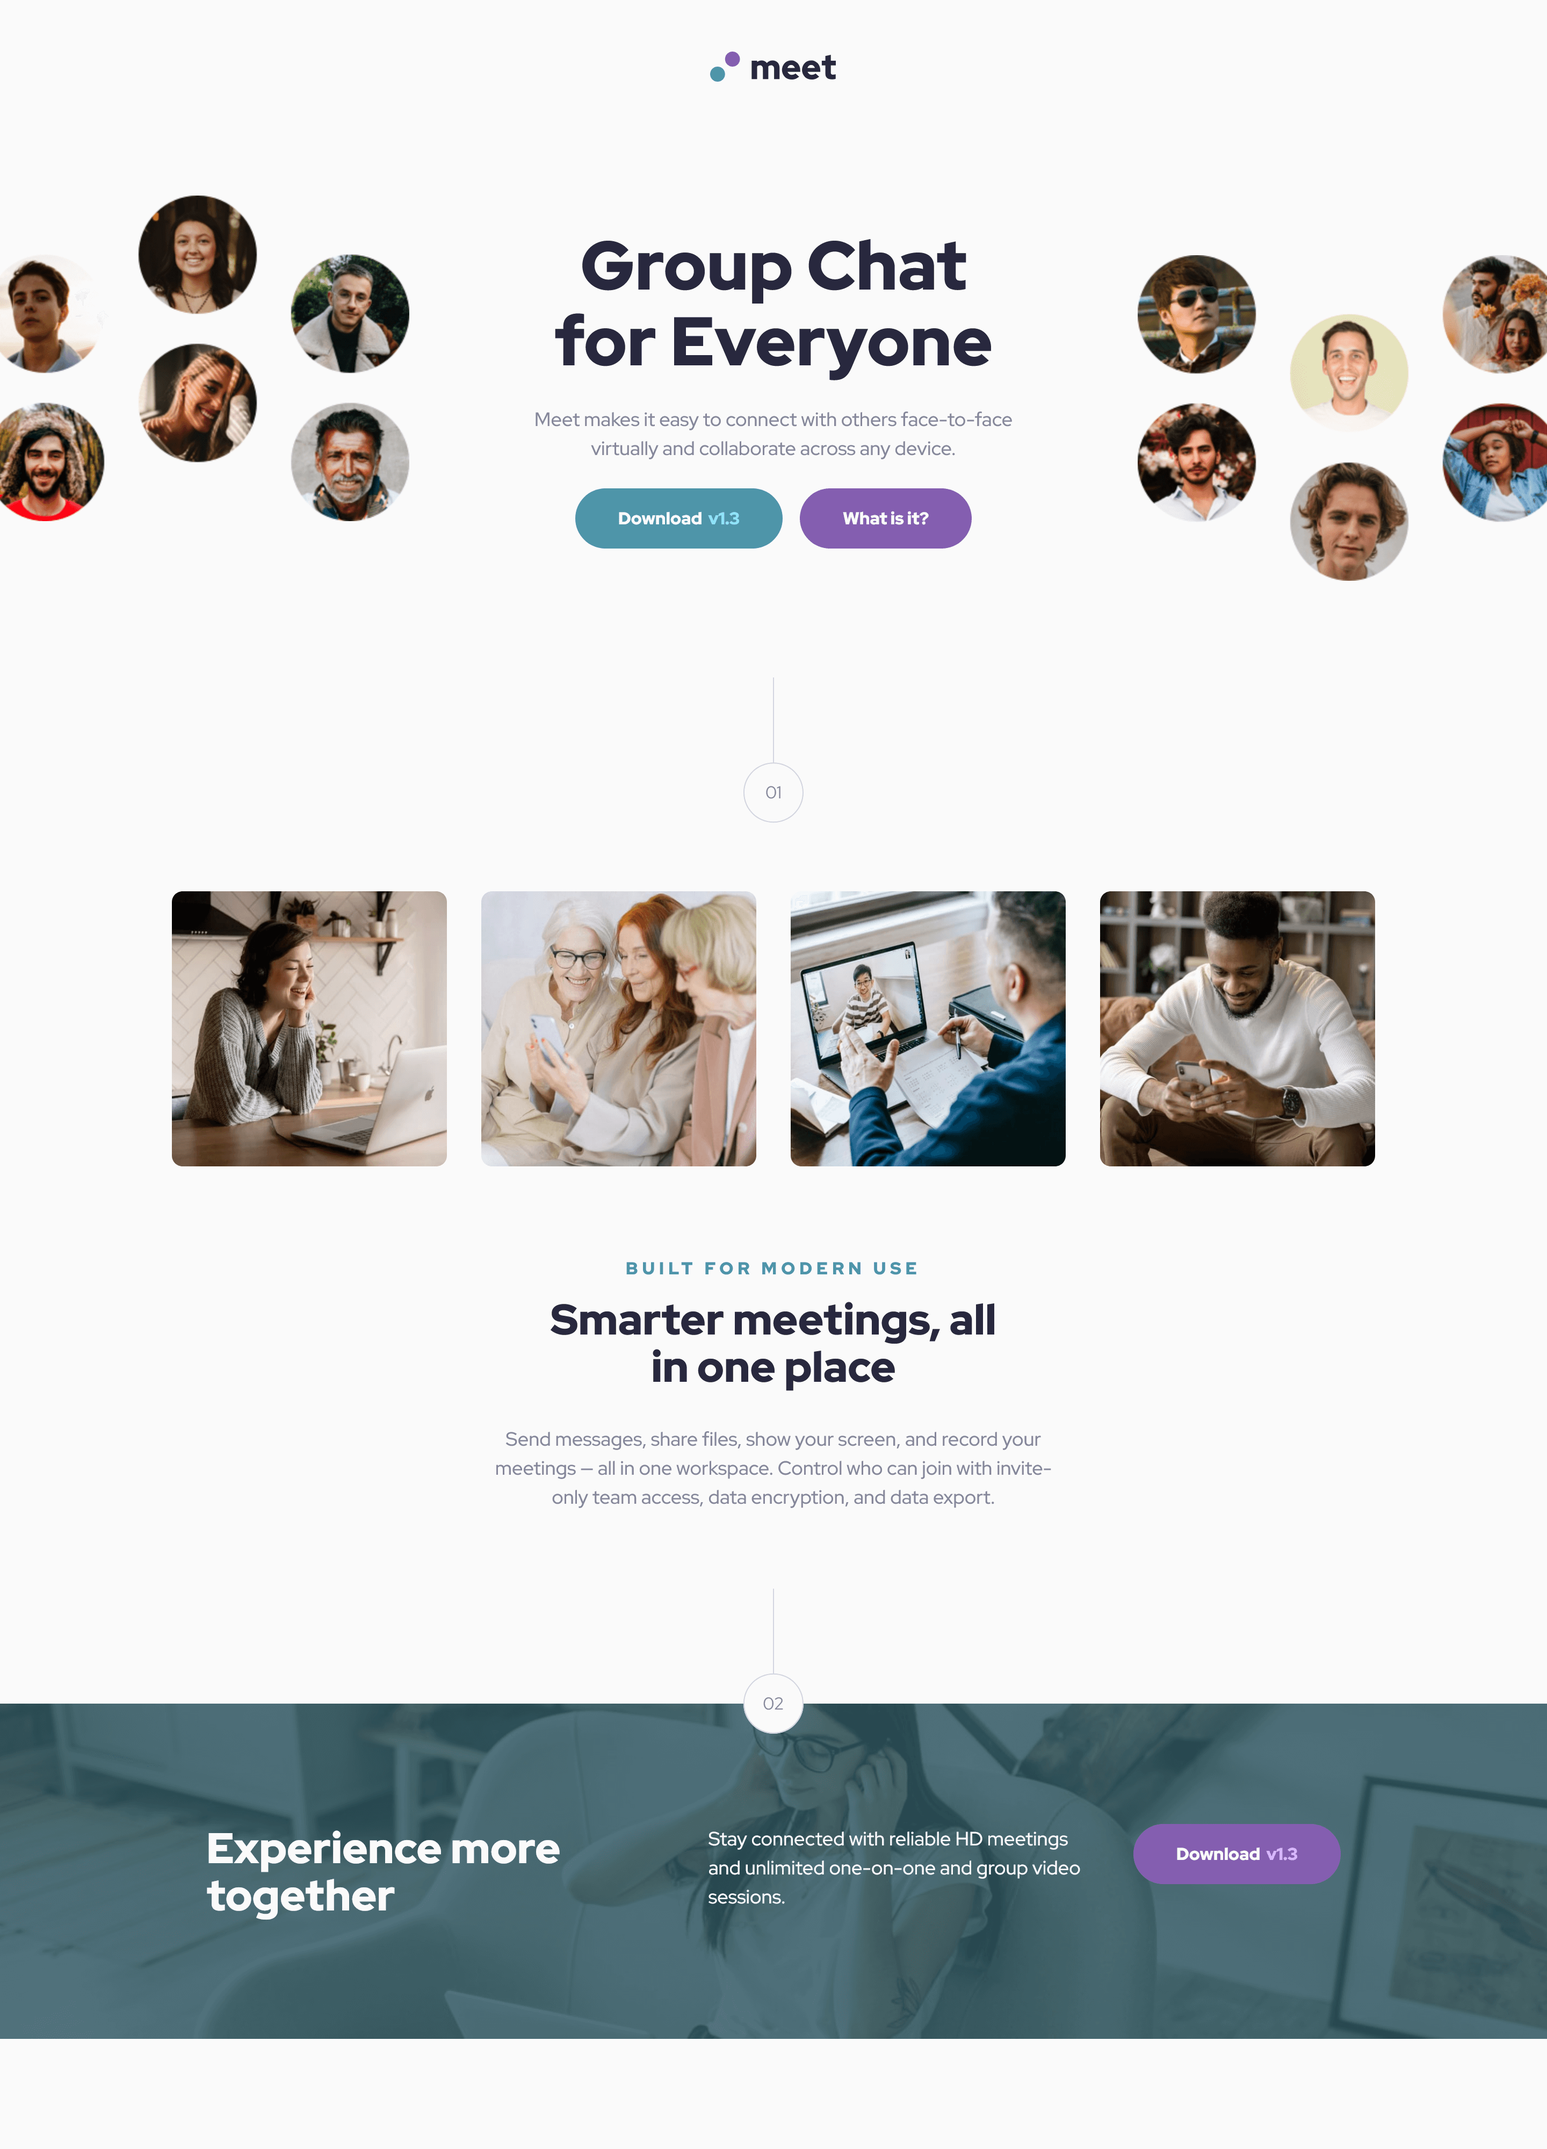
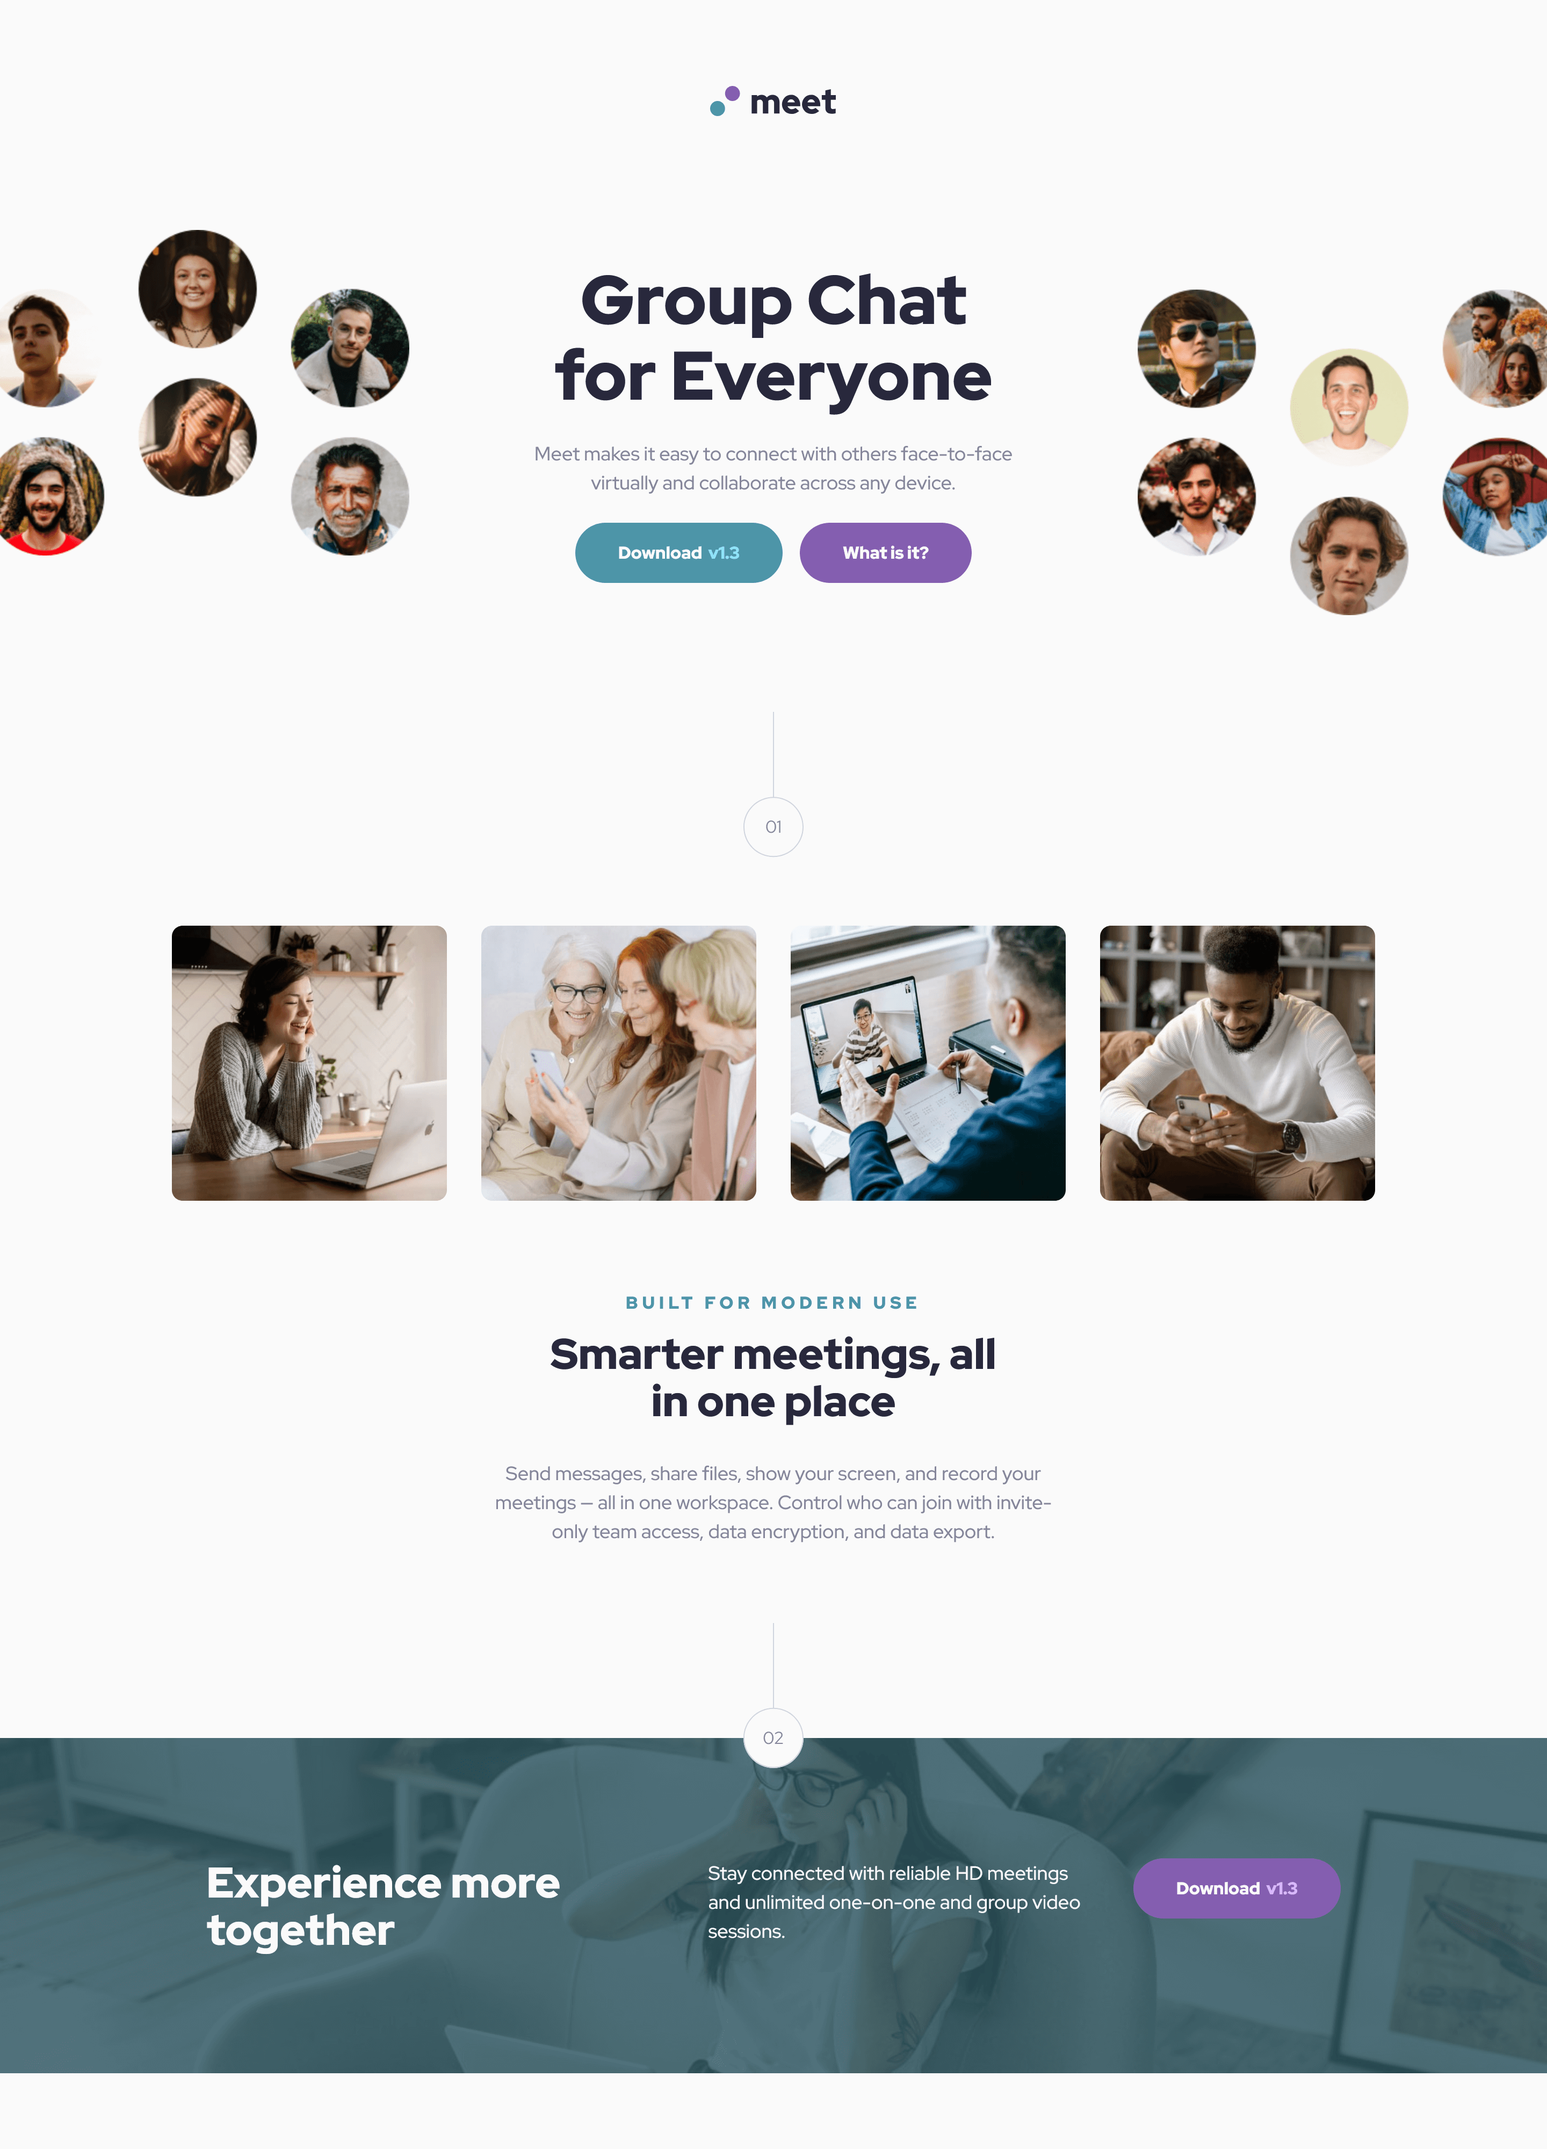
Edit topnav.scss

diff --git a/dist/style.css b/dist/style.css
@@ -1,1 +1,1 @@
-*,*::before,*::after{margin:0;padding:0;box-sizing:border-box}body{font-family:"Red Hat Display",Arial,Helvetica,sans-serif;background-color:var(--white);color:var(--slate-600)}input,button{font-family:"Red Hat Display",Arial,Helvetica,sans-serif}img{display:block;width:100%;height:auto}a{text-decoration:none}.visually-hidden{position:absolute;left:-10000px;top:auto;width:1px;height:1px;overflow:hidden}@font-face{font-display:swap;font-family:"Red Hat Display";font-style:normal;font-weight:400;src:url("../fonts/red-hat-display-v20-latin-regular.woff2") format("woff2")}@font-face{font-display:swap;font-family:"Red Hat Display";font-style:normal;font-weight:500;src:url("../fonts/red-hat-display-v20-latin-500.woff2") format("woff2")}@font-face{font-display:swap;font-family:"Red Hat Display";font-style:normal;font-weight:900;src:url("../fonts/red-hat-display-v20-latin-900.woff2") format("woff2")}h1,h2{font-weight:900}h1{font-size:2.5rem;font-size:clamp(2.5rem,1.74rem + 3.22vw,4rem);line-height:1.1;color:var(--slate-900)}h2{font-size:2rem;font-size:clamp(2rem,1.75rem + 1.074vw,2.5rem);line-height:1.1;color:var(--slate-900)}p{font-size:1rem;font-size:clamp(1rem,.94rem + .27vw,1.125rem);font-weight:500;line-height:1.5}:root{--white: hsl(0, 0%, 98%);--cyan-600: hsl(192, 37%, 48%);--cyan-300: hsl(192, 90%, 77%);--overlay: hsla(192, 37%, 28%, 0.8);--purple-600: hsl(268, 34%, 53%);--purple-300: hsl(268, 100%, 86%);--button-purple-hover: hsl(268, 55%, 71%);--slate-900: hsl(240, 21%, 20%);--slate-600: hsl(240, 10%, 57%);--slate-300: hsl(240, 18%, 85%)}.wrapper{width:min(100% - 4rem,70rem);margin-inline:auto}.topnav__wrapper{display:flex;justify-content:center;align-items:center;padding-block-start:48px}.topnav__logo{width:7.375rem}.hero{display:flex;flex-direction:column;max-width:100%;padding-block:64px 32px}@media(min-width: 43.75em){.hero{padding-block:64px}}.hero picture{margin-bottom:48px}@media(min-width: 43.75em){.hero picture{margin-bottom:72px}}.hero__image{width:100%;height:auto}@media(min-width: 56.25em){.hero__image{display:none}}@media(min-width: 43.75em){.hero__wrapper{width:448px}}@media(min-width: 56.25em){.hero__wrapper{display:flex;justify-content:center;align-items:center;position:relative;gap:clamp(40px,8vw,127.85px);max-width:1120px;margin:0 auto}}.hero__image-left{display:none}@media(min-width: 56.25em){.hero__image-left{display:block;align-self:flex-start;width:394px;height:303px;flex-shrink:0;margin-top:-30px}}.hero__text-wrapper{display:grid;gap:24px;text-align:center}@media(min-width: 56.25em){.hero__text-wrapper{width:448px;flex-shrink:0}}.hero__cta{display:flex;flex-wrap:wrap;justify-content:center;gap:16px}.hero__button{display:inline-block;gap:16px;padding:16px 40px;font-size:1rem;line-height:1.5;font-weight:900;color:var(--white);border-radius:29px;transition:background-color 120ms ease-in-out}.hero span{color:var(--cyan-300);margin-left:2.5px}.hero .button-cyan{background-color:var(--cyan-600)}.hero .button-cyan:hover{background-color:var(--cyan-300)}.hero .button-purple{background-color:var(--purple-600)}.hero .button-purple:hover{background-color:var(--button-purple-hover)}.hero__image-right{display:none}@media(min-width: 56.25em){.hero__image-right{display:block;align-self:flex-end;width:394px;height:303px;flex-shrink:0;margin-bottom:-30px}}.feature{padding-block:32px 64px}@media(min-width: 43.75em){.feature{padding-block:56px 64px}}@media(min-width: 56.25em){.feature{padding-block:56px 72px}}.feature__wrapper{display:flex;flex-direction:column;gap:64px;justify-content:center;align-items:center}.feature__number-wrapper{display:flex;flex-direction:column;align-items:center;width:56px}.feature__line{width:1px;height:80px;background-color:var(--slate-300);margin-bottom:-1px}.feature__circle{width:56px;height:56px;border:1px solid var(--slate-300);border-radius:50%;display:flex;justify-content:center;align-items:center;font-size:1rem;line-height:1.5;color:var(--slate-600)}.feature__image-wrapper{display:grid;grid-template-columns:repeat(2, 1fr);gap:clamp(1rem,.5454545455rem + 1.9393939394vw,2rem)}@media(min-width: 43.75em){.feature__image-wrapper{grid-template-columns:repeat(4, 1fr);gap:24px}}@media(min-width: 56.25em){.feature__image-wrapper{gap:32px}}.feature__image{border-radius:10px}@media(min-width: 43.75em){.feature__image{width:152px;height:160px}}@media(min-width: 56.25em){.feature__image{width:256px;height:256px}}.feature__text-wrapper{display:grid;gap:32px;text-align:center}@media(min-width: 43.75em){.feature__text-wrapper{width:30.625rem}}@media(min-width: 56.25em){.feature__text-wrapper{width:34rem}}.feature__title span{display:inline-block;font-size:0.75rem;font-size:clamp(0.75rem,.64rem + .485vw,1rem);line-height:1.1;letter-spacing:4px;text-transform:uppercase;color:var(--cyan-600);margin-bottom:16px}@media(min-width: 56.25em){.feature__title{max-width:445px;margin-inline:auto}}.footer{display:flex;flex-direction:column;align-items:center;position:relative}.footer__number-wrapper{display:flex;flex-direction:column;align-items:center;width:56px;z-index:3}.footer__line{width:1px;height:80px;background-color:var(--slate-300);margin-bottom:-1px}.footer__circle{width:56px;height:56px;border:1px solid var(--slate-300);border-radius:50%;display:flex;justify-content:center;align-items:center;font-size:1rem;line-height:1.5;color:var(--slate-600);background-color:var(--white)}.footer__text-wrapper{width:100%;height:374px;padding:64px 32px;background-image:url("/img/image-footer-mobile.jpg");background-size:cover;background-position:center;position:relative;margin-top:-28px;display:flex;justify-content:center}@media(min-width: 43.75em){.footer__text-wrapper{background-image:url("/img/image-footer-tablet.jpg");height:320px}}@media(min-width: 56.25em){.footer__text-wrapper{background-image:url("/img/image-footer-desktop.jpg");height:312px;padding-block:112px}}.footer__overlay{position:absolute;top:0;left:0;width:100%;height:100%;background-color:var(--overlay);z-index:1}.footer__text{width:100%;max-width:1120px;position:relative;display:flex;flex-direction:column;align-items:center;justify-content:center;text-align:center;gap:24px;z-index:2;padding:0 32px}@media(min-width: 56.25em){.footer__text{display:grid;grid-template-columns:repeat(4, 1fr);gap:32px;text-align:left;align-items:flex-start;justify-content:center;margin:0 auto;height:88px}}.footer__title{color:var(--white)}@media(min-width: 56.25em){.footer__title{grid-column:1/3}}.footer__description{color:var(--white)}@media(min-width: 56.25em){.footer__description{grid-column:3/4;width:355px}}.footer__button{display:inline-block;gap:16px;padding:16px 40px;font-size:1rem;line-height:1.5;font-weight:900;color:var(--white);border-radius:29px;transition:background-color 200ms ease-in-out}@media(min-width: 56.25em){.footer__button{grid-column:4/5;justify-self:flex-end;width:auto}}.footer span{color:var(--purple-300);margin-left:2.5px}.footer .button-purple{background-color:var(--purple-600)}.footer .button-purple:hover{background-color:var(--button-purple-hover)}/*# sourceMappingURL=style.css.map */
+*,*::before,*::after{margin:0;padding:0;box-sizing:border-box}body{font-family:"Red Hat Display",Arial,Helvetica,sans-serif;background-color:var(--white);color:var(--slate-600)}input,button{font-family:"Red Hat Display",Arial,Helvetica,sans-serif}img{display:block;width:100%;height:auto}a{text-decoration:none}.visually-hidden{position:absolute;left:-10000px;top:auto;width:1px;height:1px;overflow:hidden}@font-face{font-display:swap;font-family:"Red Hat Display";font-style:normal;font-weight:400;src:url("../fonts/red-hat-display-v20-latin-regular.woff2") format("woff2")}@font-face{font-display:swap;font-family:"Red Hat Display";font-style:normal;font-weight:500;src:url("../fonts/red-hat-display-v20-latin-500.woff2") format("woff2")}@font-face{font-display:swap;font-family:"Red Hat Display";font-style:normal;font-weight:900;src:url("../fonts/red-hat-display-v20-latin-900.woff2") format("woff2")}h1,h2{font-weight:900}h1{font-size:2.5rem;font-size:clamp(2.5rem,1.74rem + 3.22vw,4rem);line-height:1.1;color:var(--slate-900)}h2{font-size:2rem;font-size:clamp(2rem,1.75rem + 1.074vw,2.5rem);line-height:1.1;color:var(--slate-900)}p{font-size:1rem;font-size:clamp(1rem,.94rem + .27vw,1.125rem);font-weight:500;line-height:1.5}:root{--white: hsl(0, 0%, 98%);--cyan-600: hsl(192, 37%, 48%);--cyan-300: hsl(192, 90%, 77%);--overlay: hsla(192, 37%, 28%, 0.8);--purple-600: hsl(268, 34%, 53%);--purple-300: hsl(268, 100%, 86%);--button-purple-hover: hsl(268, 55%, 71%);--slate-900: hsl(240, 21%, 20%);--slate-600: hsl(240, 10%, 57%);--slate-300: hsl(240, 18%, 85%)}.wrapper{width:min(100% - 4rem,70rem);margin-inline:auto}.topnav__wrapper{display:flex;justify-content:center;align-items:center;padding-block-start:48px}@media(min-width: 56.25em){.topnav__wrapper{padding-block-start:80px}}.topnav__logo{width:7.375rem}.hero{display:flex;flex-direction:column;max-width:100%;padding-block:64px 32px}@media(min-width: 43.75em){.hero{padding-block:64px}}.hero picture{margin-bottom:48px}@media(min-width: 43.75em){.hero picture{margin-bottom:72px}}.hero__image{width:100%;height:auto}@media(min-width: 56.25em){.hero__image{display:none}}@media(min-width: 43.75em){.hero__wrapper{width:448px}}@media(min-width: 56.25em){.hero__wrapper{display:flex;justify-content:center;align-items:center;position:relative;gap:clamp(40px,8vw,127.85px);max-width:1120px;margin:0 auto}}.hero__image-left{display:none}@media(min-width: 56.25em){.hero__image-left{display:block;align-self:flex-start;width:394px;height:303px;flex-shrink:0;margin-top:-30px}}.hero__text-wrapper{display:grid;gap:24px;text-align:center}@media(min-width: 56.25em){.hero__text-wrapper{width:448px;flex-shrink:0}}.hero__cta{display:flex;flex-wrap:wrap;justify-content:center;gap:16px}.hero__button{display:inline-block;gap:16px;padding:16px 40px;font-size:1rem;line-height:1.5;font-weight:900;color:var(--white);border-radius:29px;transition:background-color 120ms ease-in-out}.hero span{color:var(--cyan-300);margin-left:2.5px}.hero .button-cyan{background-color:var(--cyan-600)}.hero .button-cyan:hover{background-color:var(--cyan-300)}.hero .button-purple{background-color:var(--purple-600)}.hero .button-purple:hover{background-color:var(--button-purple-hover)}.hero__image-right{display:none}@media(min-width: 56.25em){.hero__image-right{display:block;align-self:flex-end;width:394px;height:303px;flex-shrink:0;margin-bottom:-30px}}.feature{padding-block:32px 64px}@media(min-width: 43.75em){.feature{padding-block:56px 64px}}@media(min-width: 56.25em){.feature{padding-block:56px 72px}}.feature__wrapper{display:flex;flex-direction:column;gap:64px;justify-content:center;align-items:center}.feature__number-wrapper{display:flex;flex-direction:column;align-items:center;width:56px}.feature__line{width:1px;height:80px;background-color:var(--slate-300);margin-bottom:-1px}.feature__circle{width:56px;height:56px;border:1px solid var(--slate-300);border-radius:50%;display:flex;justify-content:center;align-items:center;font-size:1rem;line-height:1.5;color:var(--slate-600)}.feature__image-wrapper{display:grid;grid-template-columns:repeat(2, 1fr);gap:clamp(1rem,.5454545455rem + 1.9393939394vw,2rem)}@media(min-width: 43.75em){.feature__image-wrapper{grid-template-columns:repeat(4, 1fr);gap:24px}}@media(min-width: 56.25em){.feature__image-wrapper{gap:32px}}.feature__image{border-radius:10px}@media(min-width: 43.75em){.feature__image{width:152px;height:160px}}@media(min-width: 56.25em){.feature__image{width:256px;height:256px}}.feature__text-wrapper{display:grid;gap:32px;text-align:center}@media(min-width: 43.75em){.feature__text-wrapper{width:30.625rem}}@media(min-width: 56.25em){.feature__text-wrapper{width:34rem}}.feature__title span{display:inline-block;font-size:0.75rem;font-size:clamp(0.75rem,.64rem + .485vw,1rem);line-height:1.1;letter-spacing:4px;text-transform:uppercase;color:var(--cyan-600);margin-bottom:16px}@media(min-width: 56.25em){.feature__title{max-width:445px;margin-inline:auto}}.footer{display:flex;flex-direction:column;align-items:center;position:relative}.footer__number-wrapper{display:flex;flex-direction:column;align-items:center;width:56px;z-index:3}.footer__line{width:1px;height:80px;background-color:var(--slate-300);margin-bottom:-1px}.footer__circle{width:56px;height:56px;border:1px solid var(--slate-300);border-radius:50%;display:flex;justify-content:center;align-items:center;font-size:1rem;line-height:1.5;color:var(--slate-600);background-color:var(--white)}.footer__text-wrapper{width:100%;height:374px;padding:64px 32px;background-image:url("/img/image-footer-mobile.jpg");background-size:cover;background-position:center;position:relative;margin-top:-28px;display:flex;justify-content:center}@media(min-width: 43.75em){.footer__text-wrapper{background-image:url("/img/image-footer-tablet.jpg");height:320px}}@media(min-width: 56.25em){.footer__text-wrapper{background-image:url("/img/image-footer-desktop.jpg");height:312px;padding-block:112px}}.footer__overlay{position:absolute;top:0;left:0;width:100%;height:100%;background-color:var(--overlay);z-index:1}.footer__text{width:100%;max-width:1120px;position:relative;display:flex;flex-direction:column;align-items:center;justify-content:center;text-align:center;gap:24px;z-index:2;padding:0 32px}@media(min-width: 56.25em){.footer__text{display:grid;grid-template-columns:repeat(4, 1fr);gap:32px;text-align:left;align-items:flex-start;justify-content:center;margin:0 auto;height:88px}}.footer__title{color:var(--white)}@media(min-width: 56.25em){.footer__title{grid-column:1/3}}.footer__description{color:var(--white)}@media(min-width: 56.25em){.footer__description{grid-column:3/4;width:355px}}.footer__button{display:inline-block;gap:16px;padding:16px 40px;font-size:1rem;line-height:1.5;font-weight:900;color:var(--white);border-radius:29px;transition:background-color 200ms ease-in-out}@media(min-width: 56.25em){.footer__button{grid-column:4/5;justify-self:flex-end;width:auto}}.footer span{color:var(--purple-300);margin-left:2.5px}.footer .button-purple{background-color:var(--purple-600)}.footer .button-purple:hover{background-color:var(--button-purple-hover)}/*# sourceMappingURL=style.css.map */

diff --git a/app/scss/components/_topnav.scss b/app/scss/components/_topnav.scss
@@ -6,6 +6,10 @@
     justify-content: center;
     align-items: center;
     padding-block-start: 48px;
+
+    @include u.breakpoint(large) {
+      padding-block-start: 80px;
+    }
   }
 
   &__logo {
